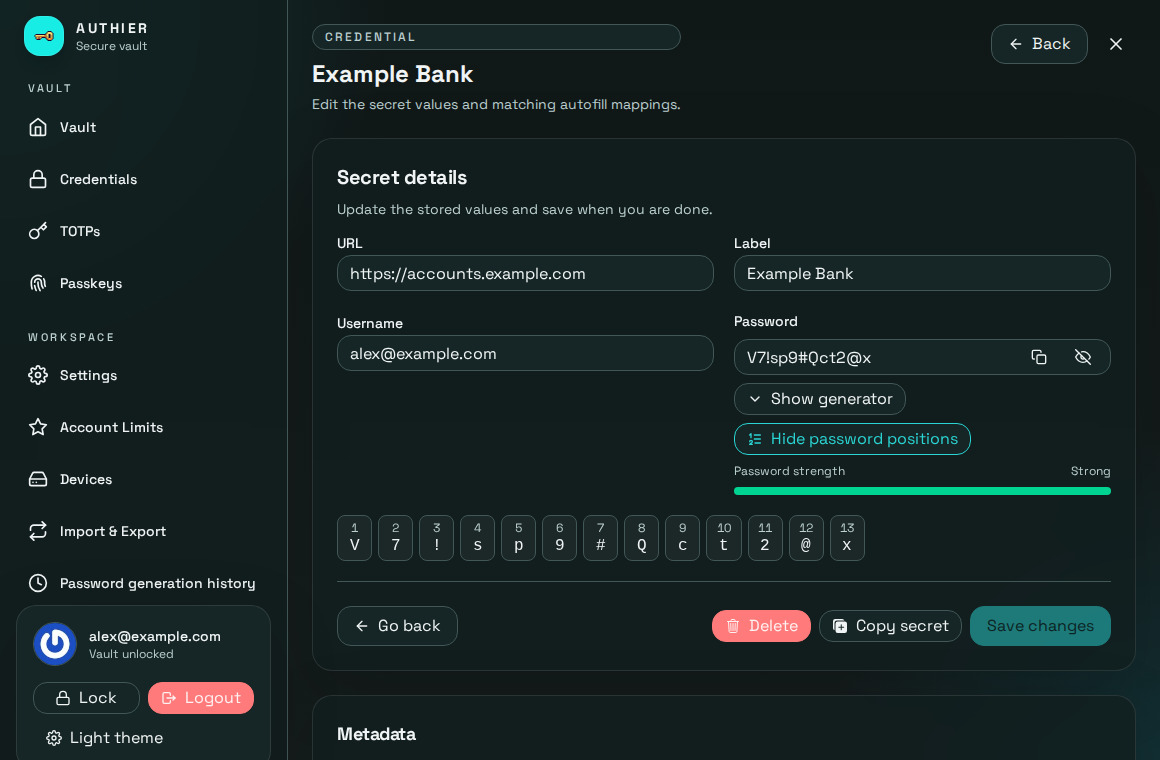
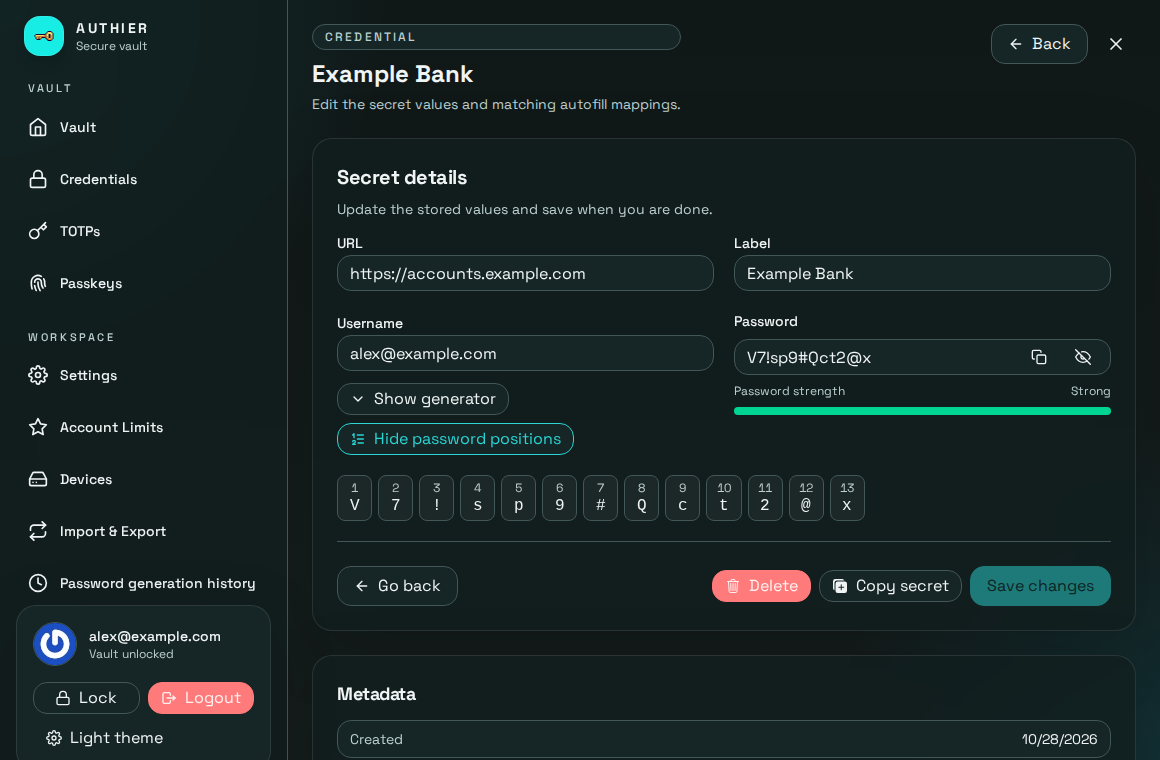
Place vault password controls below the username

diff --git a/web-extension/src/components/vault/VaultItemSettings.tsx b/web-extension/src/components/vault/VaultItemSettings.tsx
@@ -172,19 +172,10 @@ function LoginSecret({ secretProps }: { secretProps: ILoginSecret }) {
             >
               <TextField label="URL" name="url" />
               <TextField label="Label" name="label" />
-              <TextField label="Username" name="username" />
 
-              <div className="space-y-2">
+              <div className="grid gap-5 md:col-span-2 md:grid-cols-2 md:gap-y-2">
+                <TextField label="Username" name="username" />
                 <PasswordField
-                  actions={
-                    canShowPositions && (
-                      <PasswordPositionsButton
-                        expanded={showPositions}
-                        onClick={() => setShowPositions((current) => !current)}
-                        panelId={positionsId}
-                      />
-                    )
-                  }
                   copyLabel={t`Copy password`}
                   label="Password"
                   name="password"
@@ -195,18 +186,35 @@ function LoginSecret({ secretProps }: { secretProps: ILoginSecret }) {
                       status: 'success'
                     })
                   }}
-                  onToggleGenerator={() => {
-                    setIsGeneratorOpen((currentValue) => !currentValue)
-                  }}
                   onToggleVisibility={() => {
                     setShowPositions(false)
                     setShowPassword((currentValue) => !currentValue)
                   }}
                   showValue={showPassword}
-                  toggleGeneratorLabel={
-                    isGeneratorOpen ? 'Hide generator' : 'Show generator'
-                  }
                 />
+                <div className="flex flex-wrap items-center gap-2">
+                  <Button
+                    aria-expanded={isGeneratorOpen}
+                    onClick={() => setIsGeneratorOpen((current) => !current)}
+                    size="sm"
+                    type="button"
+                    variant="outline"
+                  >
+                    {isGeneratorOpen ? (
+                      <FiChevronUp className="size-4" />
+                    ) : (
+                      <FiChevronDown className="size-4" />
+                    )}
+                    {isGeneratorOpen ? 'Hide generator' : 'Show generator'}
+                  </Button>
+                  {canShowPositions && (
+                    <PasswordPositionsButton
+                      expanded={showPositions}
+                      onClick={() => setShowPositions((current) => !current)}
+                      panelId={positionsId}
+                    />
+                  )}
+                </div>
                 <PasswordStrengthBar
                   color={levelOfPassword.color ?? 'red'}
                   label={levelOfPassword.value}
@@ -352,7 +360,6 @@ function TotpSecret({ secretProps }: { secretProps: ITOTPSecret }) {
                   setShowSecret((currentValue) => !currentValue)
                 }}
                 showValue={showSecret}
-                toggleGeneratorLabel={null}
               />
             </div>
             <NumberField label="Digits" name="digits" />
@@ -653,25 +660,19 @@ function NumberField({ label, name }: { label: string; name: string }) {
 }
 
 function PasswordField({
-  actions,
   copyLabel,
   label,
   name,
   onCopy,
-  onToggleGenerator,
   onToggleVisibility,
-  showValue,
-  toggleGeneratorLabel
+  showValue
 }: {
-  actions?: ReactNode
   copyLabel: string
   label: string
   name: string
   onCopy: (value: string) => void
-  onToggleGenerator?: () => void
   onToggleVisibility: () => void
   showValue: boolean
-  toggleGeneratorLabel: string | null
 }) {
   const [field, meta] = useField<string>(name)
   const inputId = useId()
@@ -724,25 +725,6 @@ function PasswordField({
             )}
           </Button>
         </div>
-      </div>
-
-      <div className="flex flex-wrap items-center gap-2">
-        {toggleGeneratorLabel && onToggleGenerator ? (
-          <Button
-            onClick={onToggleGenerator}
-            size="sm"
-            type="button"
-            variant="outline"
-          >
-            {toggleGeneratorLabel.includes('Hide') ? (
-              <FiChevronUp className="size-4" />
-            ) : (
-              <FiChevronDown className="size-4" />
-            )}
-            {toggleGeneratorLabel}
-          </Button>
-        ) : null}
-        {actions}
       </div>
 
       {meta.touched && meta.error ? (

diff --git a/web-extension/tests/ui-preview/passwordPositions.spec.ts b/web-extension/tests/ui-preview/passwordPositions.spec.ts
@@ -37,6 +37,28 @@ test('shows numbered characters on the vault credential detail page while reveal
     page.getByRole('button', { name: 'Hide password positions' })
   ).toHaveAttribute('aria-expanded', 'true')
 
+  const usernameColumn = await page
+    .getByRole('textbox', { name: 'Username', exact: true })
+    .evaluate((input) => {
+      const { left, right, bottom } = input.getBoundingClientRect()
+      return { left, right, bottom }
+    })
+  const toggles = page.getByRole('button', {
+    name: /^(Show generator|Hide password positions)$/
+  })
+  await expect(toggles).toHaveCount(2)
+  const toggleBounds = await toggles.evaluateAll((buttons) =>
+    buttons.map((button) => {
+      const { left, right, top } = button.getBoundingClientRect()
+      return { left, right, top }
+    })
+  )
+  for (const { left, right, top } of toggleBounds) {
+    expect(left).toBeGreaterThanOrEqual(usernameColumn.left)
+    expect(right).toBeLessThanOrEqual(usernameColumn.right)
+    expect(top).toBeGreaterThanOrEqual(usernameColumn.bottom)
+  }
+
   const formWidth = await password.evaluate(
     (input) => input.closest('form')?.getBoundingClientRect().width
   )

diff --git a/web-extension/ui-preview/README.md b/web-extension/ui-preview/README.md
@@ -8,7 +8,8 @@ valid credentials, while Formik still validates required credential fields. It
 captures `docs/screenshots/credential-edit-generator-validation.png`.
 
 In `credential-edit`, reveal the password and select “Show password positions”
-to see its numbered characters across the full form width. Run
+below Username, where the generator toggle also appears on desktop. The
+numbered characters use the full form width. Run
 `pnpm playwright:ui-preview passwordPositions.spec.ts` from `web-extension`
 to verify the layout, numbering, live edits, and masking. It captures
 `docs/screenshots/password-positions.png`.
